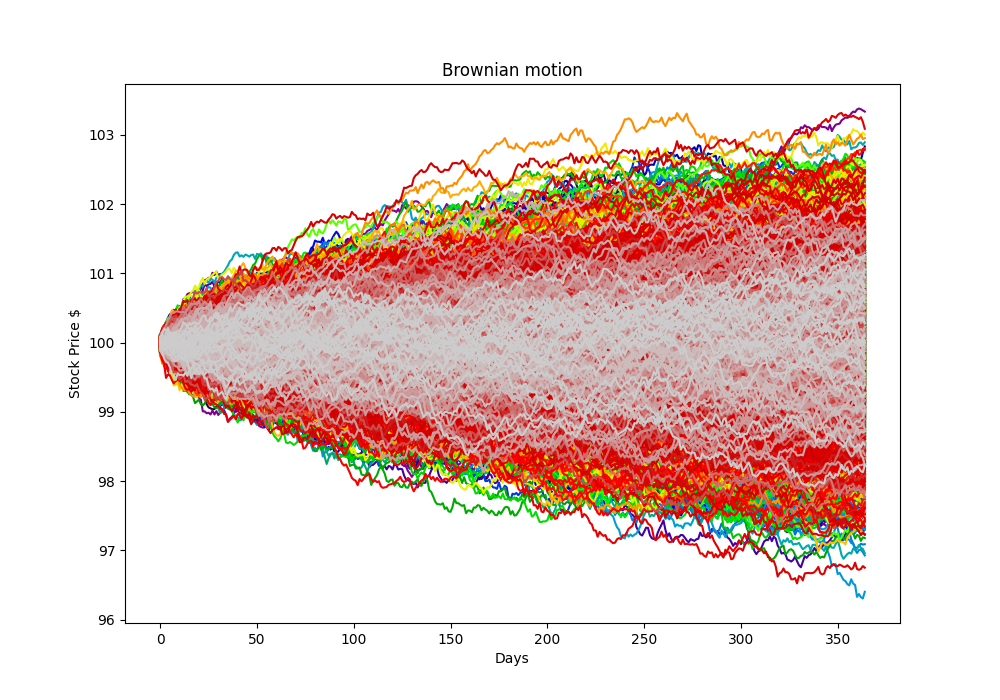
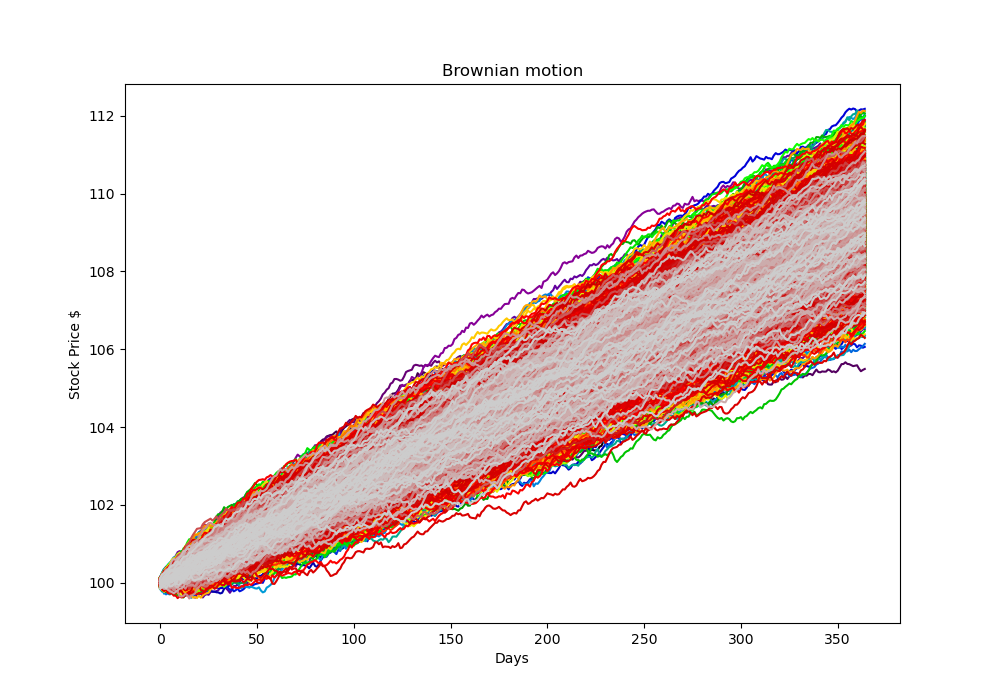
update

diff --git a/Assn3/HWK3_Grogan_Cody.py b/Assn3/HWK3_Grogan_Cody.py
@@ -1,8 +1,6 @@
 import numpy as np
 import matplotlib.pyplot as plt
 import os
-import math
-import multiprocessing
 import pandas as pd
 import seaborn as sns
 from fitter import Fitter, get_common_distributions
@@ -27,9 +25,6 @@ class BrownianSimulation:
         
         for i in range(int(self.T /self.dt)):
             dW_t =  self.random()
-            
-            #paths.append(self.S_0 * math.exp((self.mu - self.vol**2/2) * (i * self.dt) + self.vol * dW_t))
-            #dW_t = np.random.normal(0, np.sqrt(self.dt))
             dY_t =  self.mu * self.dt + self.vol * dW_t
             self.S_t += dY_t
             paths.append(self.S_t)
@@ -61,7 +56,7 @@ def problem1():
     T = 1
     S_0 = 100
     pathNum = 5000
-    randoms = lambda : np.random.beta(14,6) - .7
+    randoms = lambda : np.random.beta(14,6) - .65
     
     brownians = [BrownianSimulation(drift, volatility, S_0, dt, T, randoms) for i in range(pathNum)] 
     paths = [b.simulate() for b in brownians]
@@ -80,33 +75,15 @@ def problem2():
     dataset2 = pd.read_csv('Data/stock2-1.csv')
 
     price1 = dataset1["Stock Price"].values
-    
-    f = Fitter(price1, distributions=get_common_distributions())
-    f.fit(progress=False)
-    params1 = f.get_best(method = 'sumsquare_error')["lognorm"]
-    random1 = lambda params=params1 : stats.lognorm.rvs(s=params["s"]) - 1
-
-    volatility = 0.5
-    drift = 0.01
-    dt = 1/365
-    T = 1
-    S_0 = 100
-    pathNum = 5000
-    
-    brownians1 = [BrownianSimulation(drift, volatility, S_0, dt, T, random1) for i in range(pathNum)]
-
-    paths1 = [b.simulate() for b in brownians1]
-    
-    plotArrays("Brownian motion", "Brownian1", "Stock Price $", range(365), paths1, "Days")
-
-
     price2 = dataset2["Stock Price"].values
     
-    f = Fitter(price2, distributions=get_common_distributions())
-    f.fit(progress=False)
-    params2 = f.get_best(method = 'sumsquare_error')["chi2"]
-    print(params2)
-    random2 = lambda params=params2 : stats.chi2.rvs(df=params["df"]) - 1
+    sns.displot(data=dataset1, x="Stock Price", kind="hist", bins = 100, aspect = 1.5)
+    sns.displot(data=dataset2, x="Stock Price", kind="hist", bins = 100, aspect = 1.5)    
+    
+    f = Fitter(price1, distributions=get_common_distributions())
+    #f.fit(progress=False)
+    #params1 = f.get_best(method = 'sumsquare_error')["lognorm"]
+    #random1 = lambda params=params1 : stats.lognorm.rvs(s=params["s"]) - 1
 
     volatility = 0.5
     drift = 0.01
@@ -115,11 +92,32 @@ def problem2():
     S_0 = 100
     pathNum = 5000
     
-    brownians2 = [BrownianSimulation(drift, volatility, S_0, dt, T, random2) for i in range(pathNum)]
+    #brownians1 = [BrownianSimulation(drift, volatility, S_0, dt, T, random1) for i in range(pathNum)]
 
-    paths2 = [b.simulate() for b in brownians2]
+    #paths1 = [b.simulate() for b in brownians1]
     
-    plotArrays("Brownian motion", "Brownian2", "Stock Price $", range(365), paths2, "Days")
+    #plotArrays("Brownian motion", "Brownian1", "Stock Price $", range(365), paths1, "Days")
+
+
+
+    
+    f = Fitter(price2, distributions=get_common_distributions())
+    #f.fit(progress=False)
+    #params2 = f.get_best(method = 'sumsquare_error')["chi2"]
+    #random2 = lambda params=params2 : stats.chi2.rvs(df=params["df"]) - 1
+
+    volatility = 0.5
+    drift = 0.01
+    dt = 1/365
+    T = 1
+    S_0 = 100
+    pathNum = 5000
+    
+    #brownians2 = [BrownianSimulation(drift, volatility, S_0, dt, T, random2) for i in range(pathNum)]
+
+    #paths2 = [b.simulate() for b in brownians2]
+    
+    #plotArrays("Brownian motion", "Brownian2", "Stock Price $", range(365), paths2, "Days")
     
 
     
